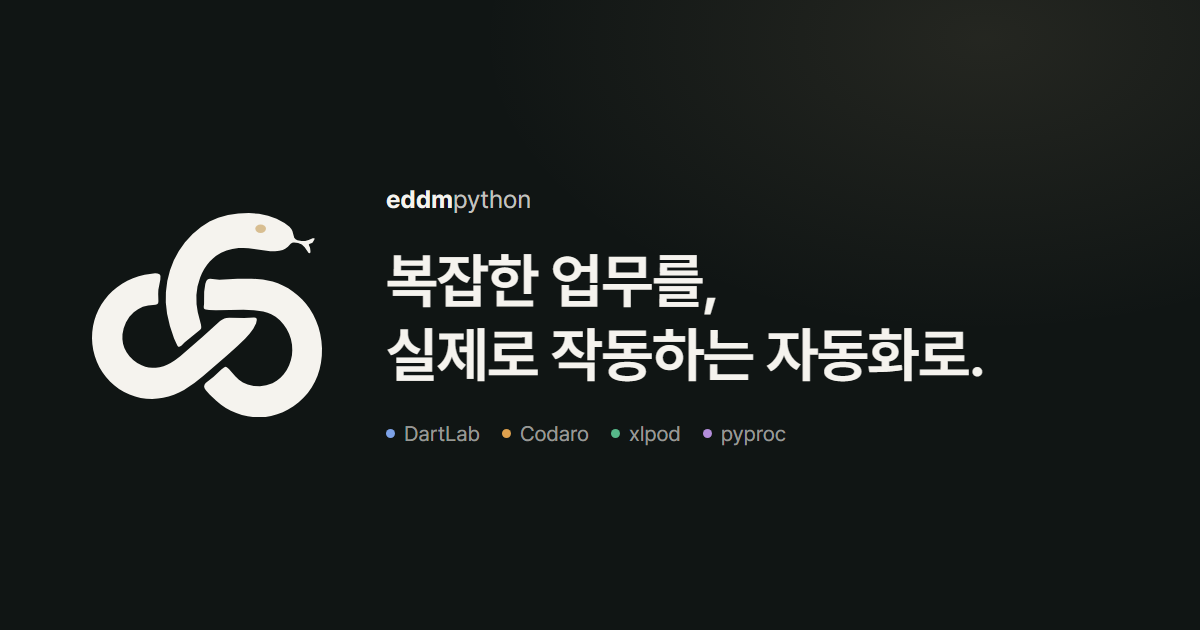
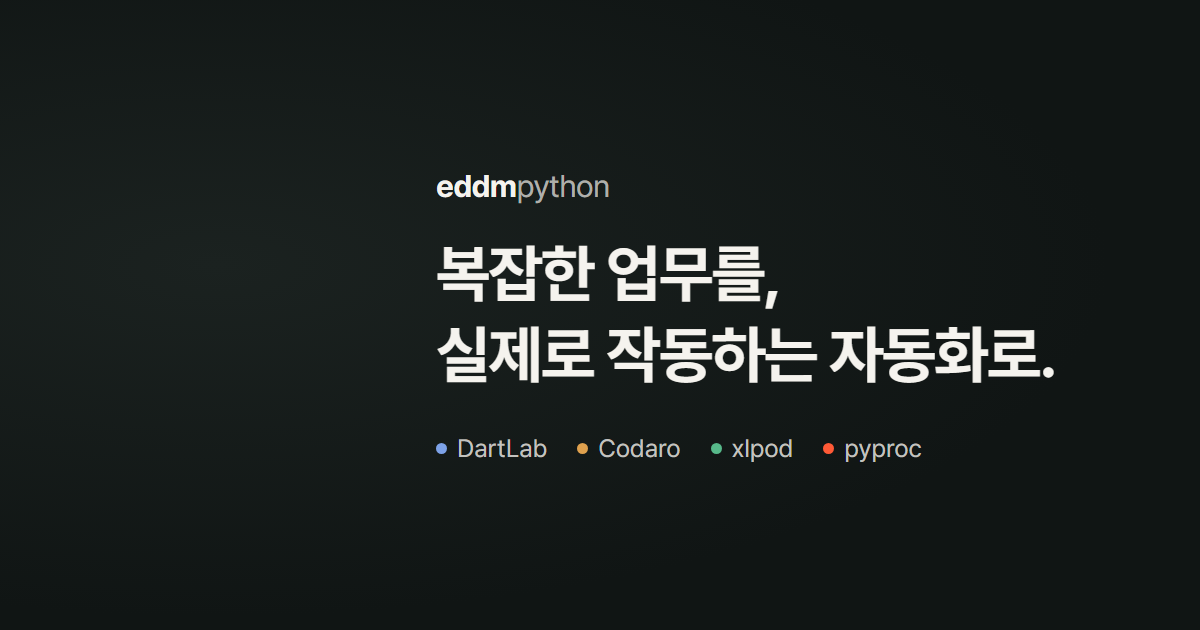
브랜드: pyproc 공개 이미지를 새 체계로 교체
제품 레일의 구형 마크를 Continuum P로 바꾸고 제품 강조색을 오렌지로 동기화했다.
쇼케이스 이미지를 새 랜딩의 실제 time travel 실행 화면으로 다시 만들고 OG 이미지에도 반영했다.
검증: npm test와 프로덕션 빌드 통과, 데스크톱 및 모바일 8개 화면 시각 승인

diff --git a/site/src/styles.css b/site/src/styles.css
@@ -10,7 +10,7 @@
   --eddm-dartlab: #7da2e8;
   --eddm-codaro: #dfa14e;
   --eddm-xlpod: #57b98a;
-  --eddm-pyproc: #b48ddb;
+  --eddm-pyproc: #ff5a36;
 }
 
 @theme inline {
